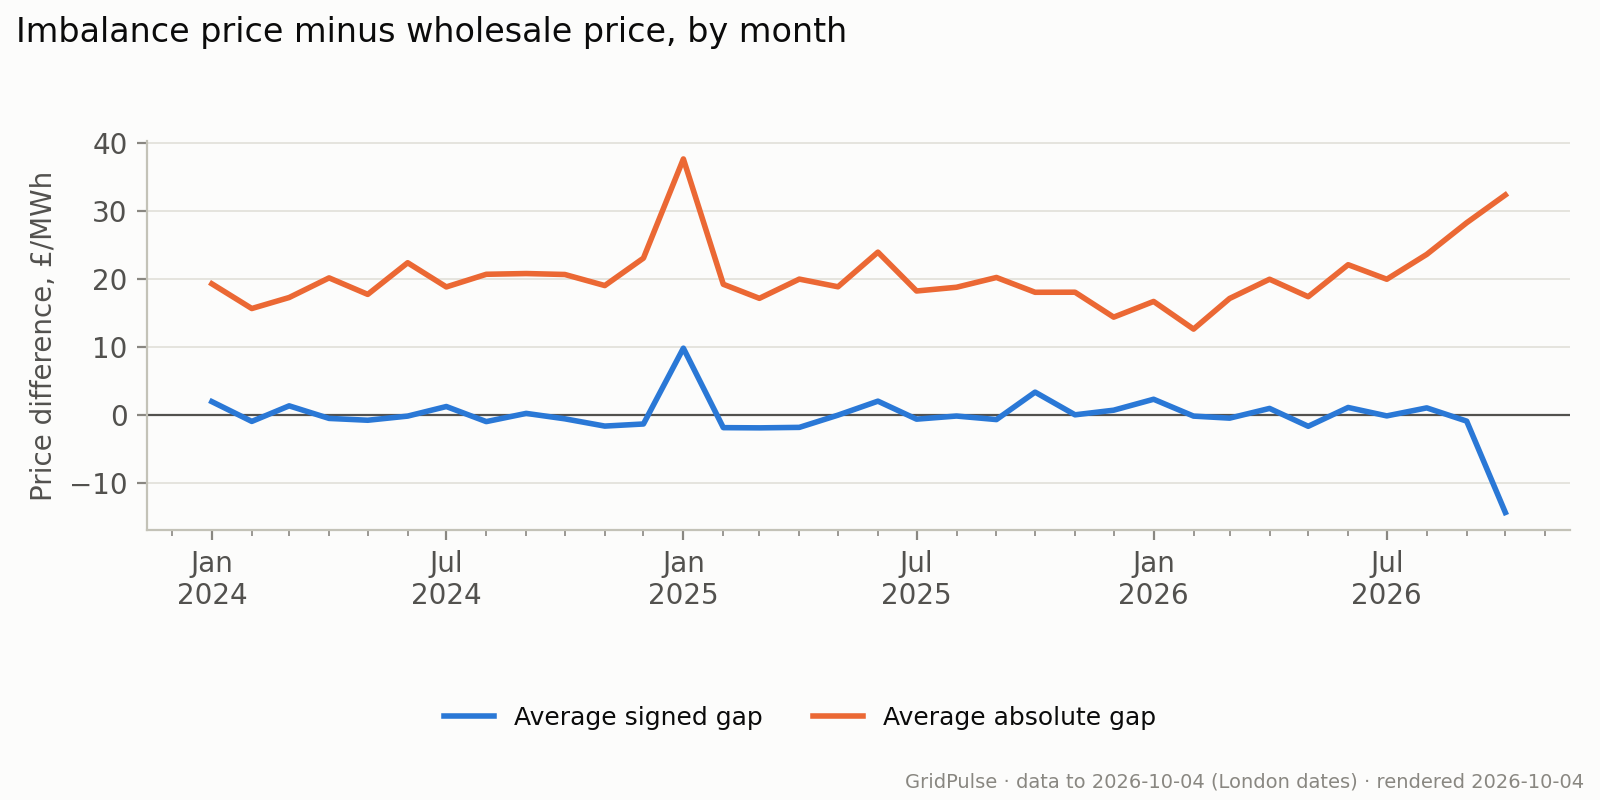
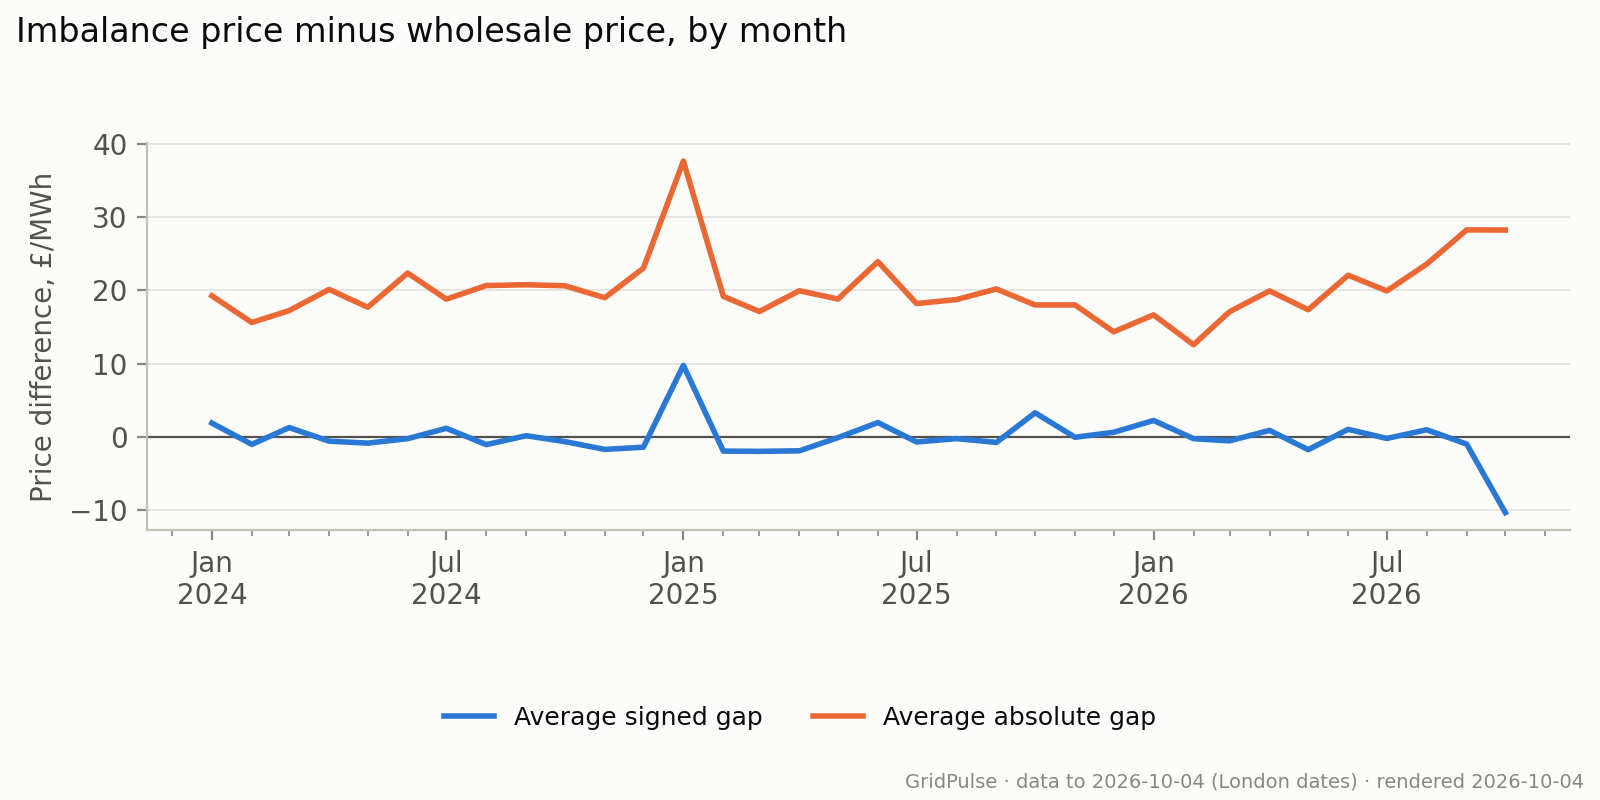
Rebuild from data to 2026-10-04, built 2026-10-04 20:50 UTC

diff --git a/index.html b/index.html
@@ -68,12 +68,12 @@ how electricity flows across borders, and how accurately demand is forecast.</p>
 <div><a href="#prices"><strong>Prices and grid conditions</strong></a><ul><li><a href="#negative_frequency">Negative Wholesale Price Frequency</a></li><li><a href="#negative_conditions">Grid Conditions During Negative Prices</a></li><li><a href="#imbalance_spread">Imbalance and Wholesale Price Gap</a></li><li><a href="#imbalance_conditions">Imbalance Prices by Grid Conditions</a></li></ul></div>
 <div><a href="#forecast-accuracy"><strong>Forecast accuracy</strong></a><ul><li><a href="#demand_accuracy">Average Demand Forecast Error by Hours Ahead</a></li><li><a href="#carbon_accuracy">Carbon Forecast Error by Month</a></li></ul></div>
 <div><a href="#data-quality"><strong>Data quality</strong></a><ul><li><a href="#coverage">Monthly Data Coverage</a></li><li><a href="#publication_coverage">Demand Forecast Publication Coverage</a></li></ul></div></nav></details>
-<p class="banner" id="built" data-built="2026-10-04T14:50:20Z" data-ingested="2026-10-04T14:00:25Z">
-Analysis built 2026-10-04 14:50 UTC. Each chart uses its stated window;
+<p class="banner" id="built" data-built="2026-10-04T20:50:18Z" data-ingested="2026-10-04T20:00:24Z">
+Analysis built 2026-10-04 20:50 UTC. Each chart uses its stated window;
 current-month results are provisional. Scheduled refresh: every 6 hours.</p>
 <details class="provenance"><summary>Data dates and source code</summary>
 <p class="meta">National carbon actuals: data to 2026-10-04 (London dates).
-Most recent ingestion across sources: 2026-10-04 14:00 UTC.
+Most recent ingestion across sources: 2026-10-04 20:00 UTC.
 These timestamps do not establish completeness or freshness for every source.
 “As of” refers to the build date. Select a chart to view it full size.</p>
 <a href="https://github.com/thrkld/gridpulse">Python, SQL and dbt project on GitHub</a></details>
@@ -203,14 +203,14 @@ These timestamps do not establish completeness or freshness for every source.
 <p>The lines compare the imbalance settlement price, used to settle differences between contracted and actual electricity volumes, with the APX wholesale price index. Blue shows imbalance price minus wholesale price: above zero means imbalance prices were higher. Orange shows the average size of the gap, regardless of which price was higher.</p>
 <div class="finding">
 <h4>Findings (as of 4 October 2026)</h4>
-<p>Across 48,310 matched half hours since 2024, imbalance prices averaged £0.20/MWh above wholesale prices. The average absolute gap was £19.97/MWh; it measures the size of differences in either direction.</p>
+<p>Across 48,310 matched half hours since 2024, imbalance prices averaged £0.21/MWh above wholesale prices. The average absolute gap was £19.96/MWh; it measures the size of differences in either direction.</p>
 </div>
 <a href="charts/imbalance_spread.png" aria-label="View full-size chart: Imbalance and Wholesale Price Gap"><img src="charts/imbalance_spread.png" alt="Imbalance and Wholesale Price Gap"></a>
 <p class="meta"><a href="charts/imbalance_spread.png">Open full-size chart</a></p>
 <h4>Limitations</h4>
 <p class="caveat">The gap is not a participant&#x27;s realised trading profit or imbalance cost. Monthly means can conceal large individual price spikes. The current month is incomplete.</p>
 <details><summary>How to read this graph and methodology</summary><p>For each half hour with both prices since January 2024, subtract wholesale price from imbalance price. Average these differences within each month for the blue line: above zero means imbalance prices were higher. For the orange line, take the absolute value of each difference before averaging, so positive and negative gaps cannot cancel. The overall finding weights monthly means by their matched-period counts; minor rounding differences are possible. Prices are in pounds per megawatt-hour (£/MWh), and today is excluded.</p></details>
-<details><summary>Numbers behind the chart</summary><div class="table-scroll" tabindex="0" role="region" aria-label="Data for Imbalance and Wholesale Price Gap"><table><thead><tr><th>Month</th><th>Mean spread GBP/MWh</th><th>Mean absolute spread GBP/MWh</th><th>Matched periods</th></tr></thead><tbody><tr><td>2024-01-01</td><td>1.92</td><td>19.27</td><td>1488</td></tr><tr><td>2024-02-01</td><td>-0.99</td><td>15.63</td><td>1392</td></tr><tr><td>2024-03-01</td><td>1.3</td><td>17.25</td><td>1486</td></tr><tr><td>2024-04-01</td><td>-0.55</td><td>20.14</td><td>1439</td></tr><tr><td>2024-05-01</td><td>-0.82</td><td>17.71</td><td>1488</td></tr><tr><td>2024-06-01</td><td>-0.21</td><td>22.37</td><td>1440</td></tr><tr><td>2024-07-01</td><td>1.2</td><td>18.81</td><td>1488</td></tr><tr><td>2024-08-01</td><td>-1.02</td><td>20.67</td><td>1488</td></tr><tr><td>2024-09-01</td><td>0.19</td><td>20.78</td><td>1440</td></tr><tr><td>2024-10-01</td><td>-0.61</td><td>20.64</td><td>1490</td></tr><tr><td>2024-11-01</td><td>-1.68</td><td>19.01</td><td>1440</td></tr><tr><td>2024-12-01</td><td>-1.37</td><td>23.05</td><td>1488</td></tr><tr><td>2025-01-01</td><td>9.79</td><td>37.65</td><td>1488</td></tr><tr><td>2025-02-01</td><td>-1.91</td><td>19.2</td><td>1344</td></tr><tr><td>2025-03-01</td><td>-1.94</td><td>17.13</td><td>1486</td></tr><tr><td>2025-04-01</td><td>-1.87</td><td>19.96</td><td>1440</td></tr><tr><td>2025-05-01</td><td>-0.07</td><td>18.83</td><td>1488</td></tr><tr><td>2025-06-01</td><td>1.99</td><td>23.93</td><td>1430</td></tr><tr><td>2025-07-01</td><td>-0.66</td><td>18.21</td><td>1488</td></tr><tr><td>2025-08-01</td><td>-0.2</td><td>18.76</td><td>1488</td></tr><tr><td>2025-09-01</td><td>-0.72</td><td>20.2</td><td>1439</td></tr><tr><td>2025-10-01</td><td>3.32</td><td>18.02</td><td>1490</td></tr><tr><td>2025-11-01</td><td>-0.02</td><td>18.03</td><td>1440</td></tr><tr><td>2025-12-01</td><td>0.66</td><td>14.36</td><td>1488</td></tr><tr><td>2026-01-01</td><td>2.27</td><td>16.67</td><td>1488</td></tr><tr><td>2026-02-01</td><td>-0.21</td><td>12.6</td><td>1344</td></tr><tr><td>2026-03-01</td><td>-0.51</td><td>17.11</td><td>1486</td></tr><tr><td>2026-04-01</td><td>0.92</td><td>19.94</td><td>1440</td></tr><tr><td>2026-05-01</td><td>-1.71</td><td>17.37</td><td>1486</td></tr><tr><td>2026-06-01</td><td>1.06</td><td>22.08</td><td>1440</td></tr><tr><td>2026-07-01</td><td>-0.18</td><td>19.94</td><td>1482</td></tr><tr><td>2026-08-01</td><td>1</td><td>23.6</td><td>1488</td></tr><tr><td>2026-09-01</td><td>-0.95</td><td>28.26</td><td>1436</td></tr><tr><td>2026-10-01</td><td>-14.4</td><td>32.35</td><td>144</td></tr></tbody></table></div></details>
+<details><summary>Numbers behind the chart</summary><div class="table-scroll" tabindex="0" role="region" aria-label="Data for Imbalance and Wholesale Price Gap"><table><thead><tr><th>Month</th><th>Mean spread GBP/MWh</th><th>Mean absolute spread GBP/MWh</th><th>Matched periods</th></tr></thead><tbody><tr><td>2024-01-01</td><td>1.92</td><td>19.27</td><td>1488</td></tr><tr><td>2024-02-01</td><td>-0.99</td><td>15.63</td><td>1392</td></tr><tr><td>2024-03-01</td><td>1.3</td><td>17.25</td><td>1486</td></tr><tr><td>2024-04-01</td><td>-0.55</td><td>20.14</td><td>1439</td></tr><tr><td>2024-05-01</td><td>-0.82</td><td>17.71</td><td>1488</td></tr><tr><td>2024-06-01</td><td>-0.21</td><td>22.37</td><td>1440</td></tr><tr><td>2024-07-01</td><td>1.2</td><td>18.81</td><td>1488</td></tr><tr><td>2024-08-01</td><td>-1.02</td><td>20.67</td><td>1488</td></tr><tr><td>2024-09-01</td><td>0.19</td><td>20.78</td><td>1440</td></tr><tr><td>2024-10-01</td><td>-0.61</td><td>20.64</td><td>1490</td></tr><tr><td>2024-11-01</td><td>-1.68</td><td>19.01</td><td>1440</td></tr><tr><td>2024-12-01</td><td>-1.37</td><td>23.05</td><td>1488</td></tr><tr><td>2025-01-01</td><td>9.79</td><td>37.65</td><td>1488</td></tr><tr><td>2025-02-01</td><td>-1.91</td><td>19.2</td><td>1344</td></tr><tr><td>2025-03-01</td><td>-1.94</td><td>17.13</td><td>1486</td></tr><tr><td>2025-04-01</td><td>-1.87</td><td>19.96</td><td>1440</td></tr><tr><td>2025-05-01</td><td>-0.07</td><td>18.83</td><td>1488</td></tr><tr><td>2025-06-01</td><td>1.99</td><td>23.93</td><td>1430</td></tr><tr><td>2025-07-01</td><td>-0.66</td><td>18.21</td><td>1488</td></tr><tr><td>2025-08-01</td><td>-0.2</td><td>18.76</td><td>1488</td></tr><tr><td>2025-09-01</td><td>-0.72</td><td>20.2</td><td>1439</td></tr><tr><td>2025-10-01</td><td>3.32</td><td>18.02</td><td>1490</td></tr><tr><td>2025-11-01</td><td>-0.02</td><td>18.03</td><td>1440</td></tr><tr><td>2025-12-01</td><td>0.66</td><td>14.36</td><td>1488</td></tr><tr><td>2026-01-01</td><td>2.27</td><td>16.67</td><td>1488</td></tr><tr><td>2026-02-01</td><td>-0.21</td><td>12.6</td><td>1344</td></tr><tr><td>2026-03-01</td><td>-0.51</td><td>17.11</td><td>1486</td></tr><tr><td>2026-04-01</td><td>0.92</td><td>19.94</td><td>1440</td></tr><tr><td>2026-05-01</td><td>-1.71</td><td>17.37</td><td>1486</td></tr><tr><td>2026-06-01</td><td>1.06</td><td>22.08</td><td>1440</td></tr><tr><td>2026-07-01</td><td>-0.18</td><td>19.94</td><td>1482</td></tr><tr><td>2026-08-01</td><td>1</td><td>23.6</td><td>1488</td></tr><tr><td>2026-09-01</td><td>-0.95</td><td>28.26</td><td>1436</td></tr><tr><td>2026-10-01</td><td>-10.29</td><td>28.24</td><td>144</td></tr></tbody></table></div></details>
 </section>
 <section class="chart" id="imbalance_conditions">
 <h3 class="chart-title">Imbalance Prices by Grid Conditions</h3>
@@ -225,7 +225,7 @@ These timestamps do not establish completeness or freshness for every source.
 <h4>Limitations</h4>
 <p class="caveat">Averages in small groups are unstable and sensitive to extreme prices. Demand and renewable share alone cannot explain price formation; season, fuel prices and system constraints also vary.</p>
 <details><summary>How to read this graph and methodology</summary><p>Rows are 5 GW demand bands; columns are 20-percentage-point renewable bands. Lower bounds are included and upper bounds excluded, except the final renewable band includes 100%. Renewables comprises wind, solar and hydro. Red means a positive average price; blue means a negative average, with stronger colour indicating a larger magnitude. Every eligible half hour since January 2024 needs positive settled demand, a renewable share from 0% to 100% and an imbalance price. The colour scale and headline only compare groups with at least 100 observations, a descriptive filter rather than a statistical significance test. All other observed averages remain labelled in striped cells and listed in the data table. Today is excluded.</p></details>
-<details><summary>Numbers behind the chart</summary><div class="table-scroll" tabindex="0" role="region" aria-label="Data for Imbalance Prices by Grid Conditions"><table><thead><tr><th>Demand bin lower bound GW</th><th>Renewable bin lower bound %</th><th>Mean imbalance price GBP/MWh</th><th>Matched periods</th></tr></thead><tbody><tr><td>10</td><td>40</td><td>60.34</td><td>45</td></tr><tr><td>10</td><td>60</td><td>-7.07</td><td>119</td></tr><tr><td>15</td><td>0</td><td>85.6</td><td>710</td></tr><tr><td>15</td><td>20</td><td>81.22</td><td>2012</td></tr><tr><td>15</td><td>40</td><td>57.32</td><td>2700</td></tr><tr><td>15</td><td>60</td><td>9.94</td><td>1927</td></tr><tr><td>15</td><td>80</td><td>13.92</td><td>7</td></tr><tr><td>20</td><td>0</td><td>92.6</td><td>2128</td></tr><tr><td>20</td><td>20</td><td>91.17</td><td>6101</td></tr><tr><td>20</td><td>40</td><td>78.48</td><td>6213</td></tr><tr><td>20</td><td>60</td><td>32.89</td><td>2619</td></tr><tr><td>25</td><td>0</td><td>105.84</td><td>1964</td></tr><tr><td>25</td><td>20</td><td>100.08</td><td>5605</td></tr><tr><td>25</td><td>40</td><td>87.13</td><td>3827</td></tr><tr><td>25</td><td>60</td><td>55.34</td><td>1147</td></tr><tr><td>30</td><td>0</td><td>113.49</td><td>1151</td></tr><tr><td>30</td><td>20</td><td>93.91</td><td>2382</td></tr><tr><td>30</td><td>40</td><td>85.19</td><td>2271</td></tr><tr><td>30</td><td>60</td><td>68.09</td><td>351</td></tr><tr><td>35</td><td>0</td><td>126.58</td><td>826</td></tr><tr><td>35</td><td>20</td><td>98.39</td><td>1939</td></tr><tr><td>35</td><td>40</td><td>90.36</td><td>1228</td></tr><tr><td>35</td><td>60</td><td>91.03</td><td>5</td></tr><tr><td>40</td><td>0</td><td>199.64</td><td>307</td></tr><tr><td>40</td><td>20</td><td>114.72</td><td>582</td></tr><tr><td>40</td><td>40</td><td>104.88</td><td>97</td></tr><tr><td>45</td><td>0</td><td>1,967</td><td>6</td></tr><tr><td>45</td><td>20</td><td>183.04</td><td>18</td></tr></tbody></table></div></details>
+<details><summary>Numbers behind the chart</summary><div class="table-scroll" tabindex="0" role="region" aria-label="Data for Imbalance Prices by Grid Conditions"><table><thead><tr><th>Demand bin lower bound GW</th><th>Renewable bin lower bound %</th><th>Mean imbalance price GBP/MWh</th><th>Matched periods</th></tr></thead><tbody><tr><td>10</td><td>40</td><td>60.34</td><td>45</td></tr><tr><td>10</td><td>60</td><td>-7.07</td><td>119</td></tr><tr><td>15</td><td>0</td><td>85.6</td><td>710</td></tr><tr><td>15</td><td>20</td><td>81.22</td><td>2012</td></tr><tr><td>15</td><td>40</td><td>57.32</td><td>2700</td></tr><tr><td>15</td><td>60</td><td>9.94</td><td>1927</td></tr><tr><td>15</td><td>80</td><td>13.92</td><td>7</td></tr><tr><td>20</td><td>0</td><td>92.6</td><td>2128</td></tr><tr><td>20</td><td>20</td><td>91.24</td><td>6101</td></tr><tr><td>20</td><td>40</td><td>78.48</td><td>6213</td></tr><tr><td>20</td><td>60</td><td>32.89</td><td>2619</td></tr><tr><td>25</td><td>0</td><td>105.94</td><td>1964</td></tr><tr><td>25</td><td>20</td><td>100.08</td><td>5605</td></tr><tr><td>25</td><td>40</td><td>87.13</td><td>3827</td></tr><tr><td>25</td><td>60</td><td>55.34</td><td>1147</td></tr><tr><td>30</td><td>0</td><td>113.49</td><td>1151</td></tr><tr><td>30</td><td>20</td><td>93.91</td><td>2382</td></tr><tr><td>30</td><td>40</td><td>85.19</td><td>2271</td></tr><tr><td>30</td><td>60</td><td>68.09</td><td>351</td></tr><tr><td>35</td><td>0</td><td>126.58</td><td>826</td></tr><tr><td>35</td><td>20</td><td>98.39</td><td>1939</td></tr><tr><td>35</td><td>40</td><td>90.36</td><td>1228</td></tr><tr><td>35</td><td>60</td><td>91.03</td><td>5</td></tr><tr><td>40</td><td>0</td><td>199.64</td><td>307</td></tr><tr><td>40</td><td>20</td><td>114.72</td><td>582</td></tr><tr><td>40</td><td>40</td><td>104.88</td><td>97</td></tr><tr><td>45</td><td>0</td><td>1,967</td><td>6</td></tr><tr><td>45</td><td>20</td><td>183.04</td><td>18</td></tr></tbody></table></div></details>
 </section>
 <h2 class="topic-heading" id="forecast-accuracy">Forecast accuracy</h2><section class="chart" id="demand_accuracy">
 <h3 class="chart-title">Average Demand Forecast Error by Hours Ahead</h3>
